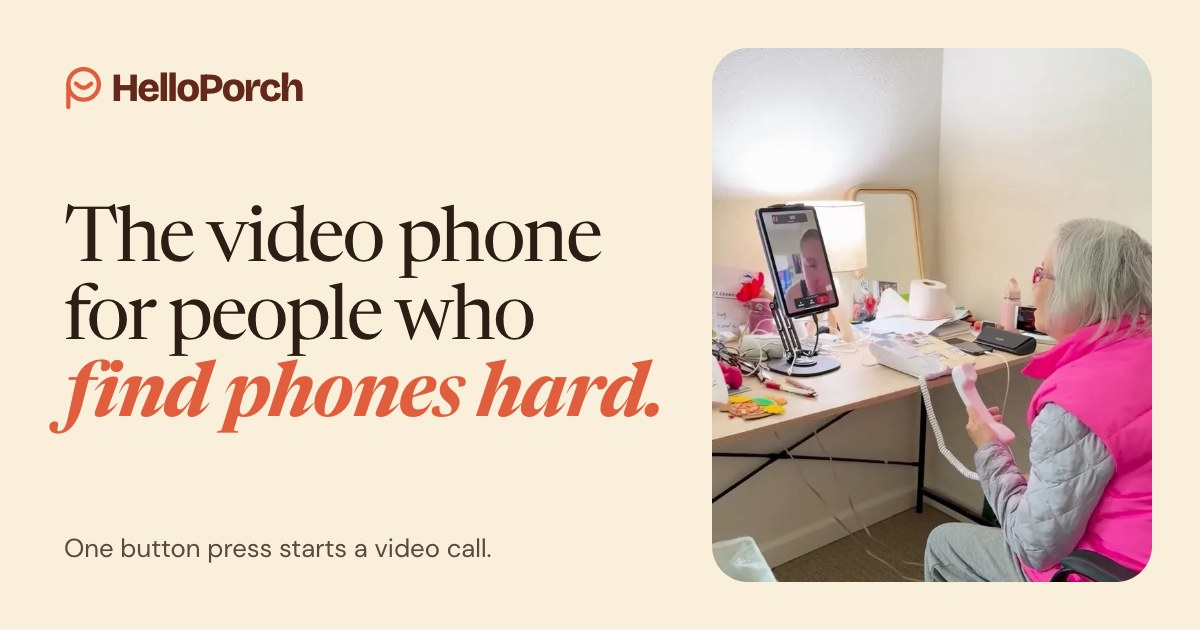
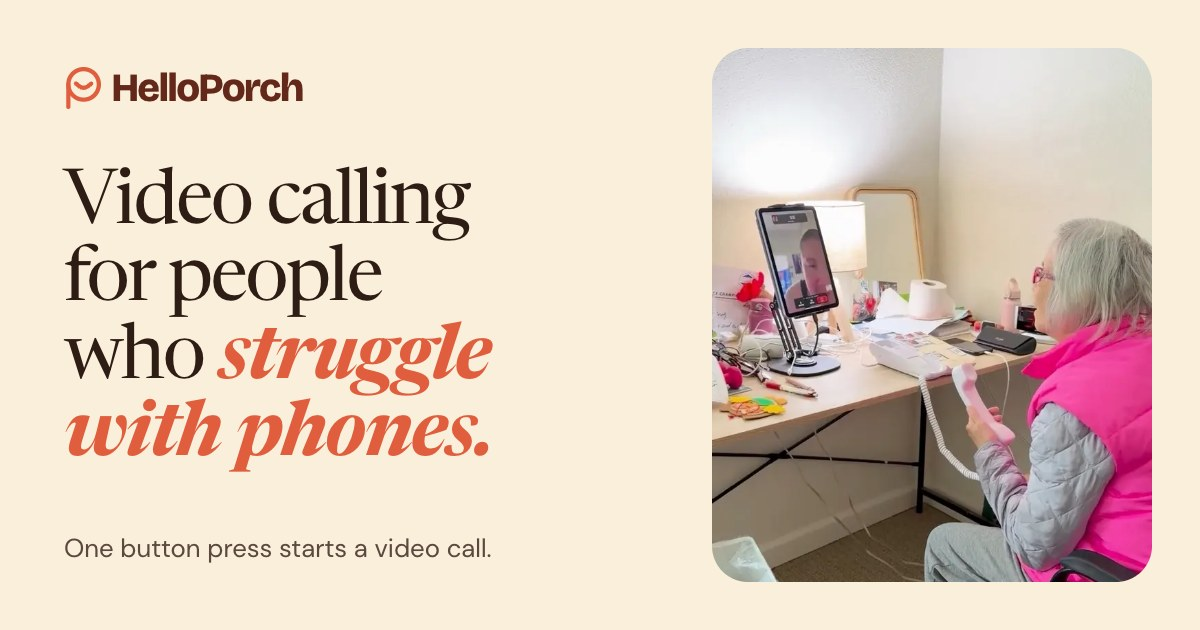
Lead the home page with "Video calling for people who struggle with phones"
The hero headline, the home page's link-preview title and its 1200x630 card (public/og/home.jpg, also used by
/privacy) now read "Video calling for people who struggle with phones."

Changed region(s): [[0.0308, 0.2413, 0.555, 0.754]]

diff --git a/app/(site)/page.tsx b/app/(site)/page.tsx
@@ -17,8 +17,8 @@ export const metadata: Metadata = pageMetadata({
   path: "/",
   title: "HelloPorch | A video phone for people with dementia, Parkinson’s or shaky hands",
   description: "Porch is a tablet and a big-button keypad with photos of loved ones on the buttons. One press starts a video call. Made for Parkinson’s, dementia and shaky hands.",
-  shareTitle: "The video phone for people who find phones hard",
-  image: { url: "/og/home.jpg", alt: "HelloPorch: the video phone for people who find phones hard, beside Ethan’s mom on her first Porch call." },
+  shareTitle: "Video calling for people who struggle with phones",
+  image: { url: "/og/home.jpg", alt: "HelloPorch: video calling for people who struggle with phones, beside Ethan’s mom on her first Porch call." },
 });
 
 // Who Porch is for and what it is, beside Mom's first real call; what's hard for them; who can call; and the pilot as
@@ -32,7 +32,7 @@ export default function Home() {
         <header className={styles.splitHero}>
           <div className={styles.splitCopy}>
             <h1 className={`${styles.splitTitle} ${styles.splitTitleLong}`}>
-              The video phone for people who <em>find phones hard.</em>
+              Video calling for people who <em>struggle with phones.</em>
             </h1>
             <div className={styles.ledeGroup}>
               <p className={styles.splitLede}>

diff --git a/app/(site)/privacy/page.tsx b/app/(site)/privacy/page.tsx
@@ -9,7 +9,7 @@ export const metadata: Metadata = pageMetadata({
   title: "Privacy Policy | HelloPorch",
   description:
     "What the Porch app and the HelloPorch website collect, why, who helps us run Porch, how long we keep information, and how to have it deleted.",
-  image: { url: "/og/home.jpg", alt: "HelloPorch: the video phone for people who find phones hard." },
+  image: { url: "/og/home.jpg", alt: "HelloPorch: video calling for people who struggle with phones." },
 });
 
 const updated = "November 2, 2026";
